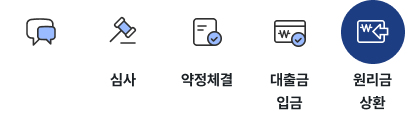
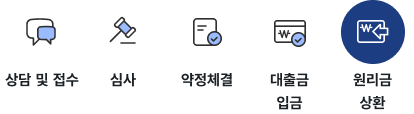
통이미지 퍼블 변경, 이미지 정리

Changed region(s): [[0.0, 0.6316, 0.2029, 0.7632]]

diff --git a/html/소액대출_제도소개.html b/html/소액대출_제도소개.html
@@ -253,7 +253,7 @@
                                                                     </div>
                                                                 </div>
                                                                 <ul class="krds-info-list dash mt10" role="list">
-                                                                    <li role="listitem">
+                                                                    <li role="listitem" class="fontsize-small">
                                                                         대출한도는 개인별로 채무조정 상환기간, 자금용도, 상환여력 등에 따라 정해집니다.
                                                                     </li>
                                                                 </ul>
@@ -261,27 +261,10 @@
                                                             <div
                                                                 class="g-info-box boxbg-blue activity-card-content blue">
                                                                 <h3>진행절차</h3>
-                                                                <div class="g-img">
-                                                                    <img src="">
+                                                                <div class="g-img mt20">
+                                                                    <img src="/type/www/images/img/img_소액대출진행절차.png?ver=3.8"
+                                                                        alt="소액대출 진행절차">
                                                                 </div>
-                                                            </div>
-                                                        </div>
-                                                        <div class="g-grid-wrap unit2">
-                                                            <!--<div class="g-img">
-                                                                <img src="/type/www/images/img/소액대출제도소개01.png?ver=3.8"
-                                                                    alt="">
-                                                            </div>
-                                                            <div class="g-img">
-                                                                <img src="/type/www/images/img/소액대출제도소개02.png?ver=3.8"
-                                                                    alt="">
-                                                            </div>-->
-                                                            <div class="g-img">
-                                                                <img src="/type/www/images/img/소액대출제도소개03.png?ver=3.8"
-                                                                    alt="">
-                                                            </div>
-                                                            <div class="g-img">
-                                                                <img src="/type/www/images/img/소액대출제도소개04.png?ver=3.8"
-                                                                    alt="">
                                                             </div>
                                                         </div>
 
